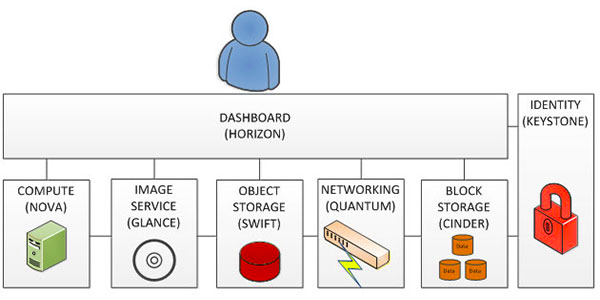
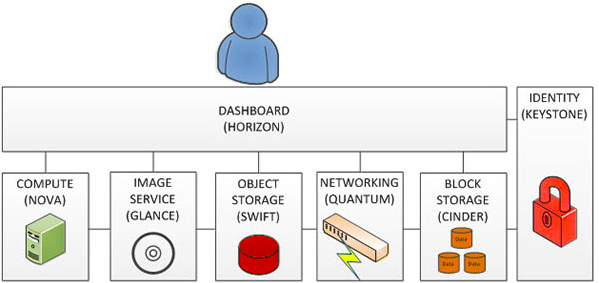
changed 19_2016_Perapiolkin.tex  changed 19_2016_Perapiolkin1.png  changed w_17_2016_Sakhipgareeva.tex

Changed region(s): [[0.0, 0.0, 0.9917, 1.0], [0.8414, 0.5936, 0.9917, 0.8763], [0.3606, 0.3675, 0.4808, 0.4806]]

diff --git a/19_2016_Perapiolkin.tex b/19_2016_Perapiolkin.tex
@@ -12,7 +12,7 @@ This report aims to give understanding of what OpenStack is, moreover to guide o
 
 New technologies in the IT world mostly appear on the basis of existing knowledge approaches and infrastructure. It is also true for the cloud computing. We can see that new step of evolution of the grid and cluster systems is Cloud Computing systems. The reason of evolution is high demand for the available computing resources in the society. Rapidly changing modern world requires fast speed deployment of the IT infrastructure. This determines fast deployment of business infrastructure -- fast accessibility to the computing resources, storage, ready software deployments, and others. From the perspective of the people who offer all of these resources it is extremely important to have orchestration tools to control and automate all of these tasks. So the merger of all of the requirements leaded to the appearance of the OpenStack.
 
-OpenStack is a merge of separate already existing technologies under the hood of Python automation. It provides such technology components like:
+OpenStack is a merge of some already existing technologies under the hood of Python automation. It includes such components like:
 
 \begin{itemize}
   \item \textbf{Keystone} provides an authentication and authorization service for other OpenStack services. Provides a catalog of endpoints for all OpenStack services.
@@ -26,7 +26,7 @@ OpenStack is a merge of separate already existing technologies under the hood of
 
 \begin{figure}[h!]
   \centering
-  \includegraphics[width=10cm]{19_2016_Perapiolkin1.png}
+  \includegraphics[width=9cm]{19_2016_Perapiolkin1.png}
 \end{figure}
 
 There are also such services like \textbf{Ceilometer} (provides telemetry), \textbf{Trove} (interaction with database), \textbf{Manila} (provides shared file \linebreak system) and some others…
@@ -35,11 +35,11 @@ For instance, \textbf{Nova} which serves as a computational resource \linebreak 
 
 Сore OpenStack service deployment process is a complex  task. In bare OpenStack deployment it’s get done by consistent configuration of each servicein in the manner that allows them to interact in between. This task can be simplified by using existing deployment automation tools like devstack and packstack. After installation and configuration admin can validate solution by running Tempest tests.
 
-\begin{thebibliography}{99}
+\begin{thebibliography}{9}
 \bibitem{Perapiolkin1} OpenStack \url{https://www.openstack.org/}
 \bibitem{Perapiolkin2} Nova \url{https://wiki.openstack.org/wiki/Nova}
 \bibitem{Perapiolkin3} devstack \url{http://docs.openstack.org/developer/devstack/}
 \bibitem{Perapiolkin4} RDO \url{https://www.rdoproject.org/}
 \bibitem{Perapiolkin5} OpenStack diagram \url{http://www.ca.com/us/lpg/ca-}\linebreak\url{technology-exchange/sunny-outlook-for-openstack-clouds.aspx}
-\end{thebibliography}
+\end{thebibliography} 
 \end{document}

diff --git a/w_17_2016_Sakhipgareeva.tex b/w_17_2016_Sakhipgareeva.tex
@@ -2,7 +2,7 @@
 \input{preamble.tex}
 \begin{document}
 \title{Ключевые риски, связанные с использованием свободных лицензий}
-\author{Anzhelika Sakhipgareeva, Moscow, Russia\footnote{\url{___}, \url{http://lvee.org/ru/abstracts/186}}}
+\author{Anzhelika Sakhipgareeva, Moscow, Russia\footnote{\url{Sar.3472@yandex.ru}, \url{http://lvee.org/ru/abstracts/186}}}
 \maketitle
 \begin{abstract}
 The article is about risks associated with the use of free software in the company or in the development of its own software products.
